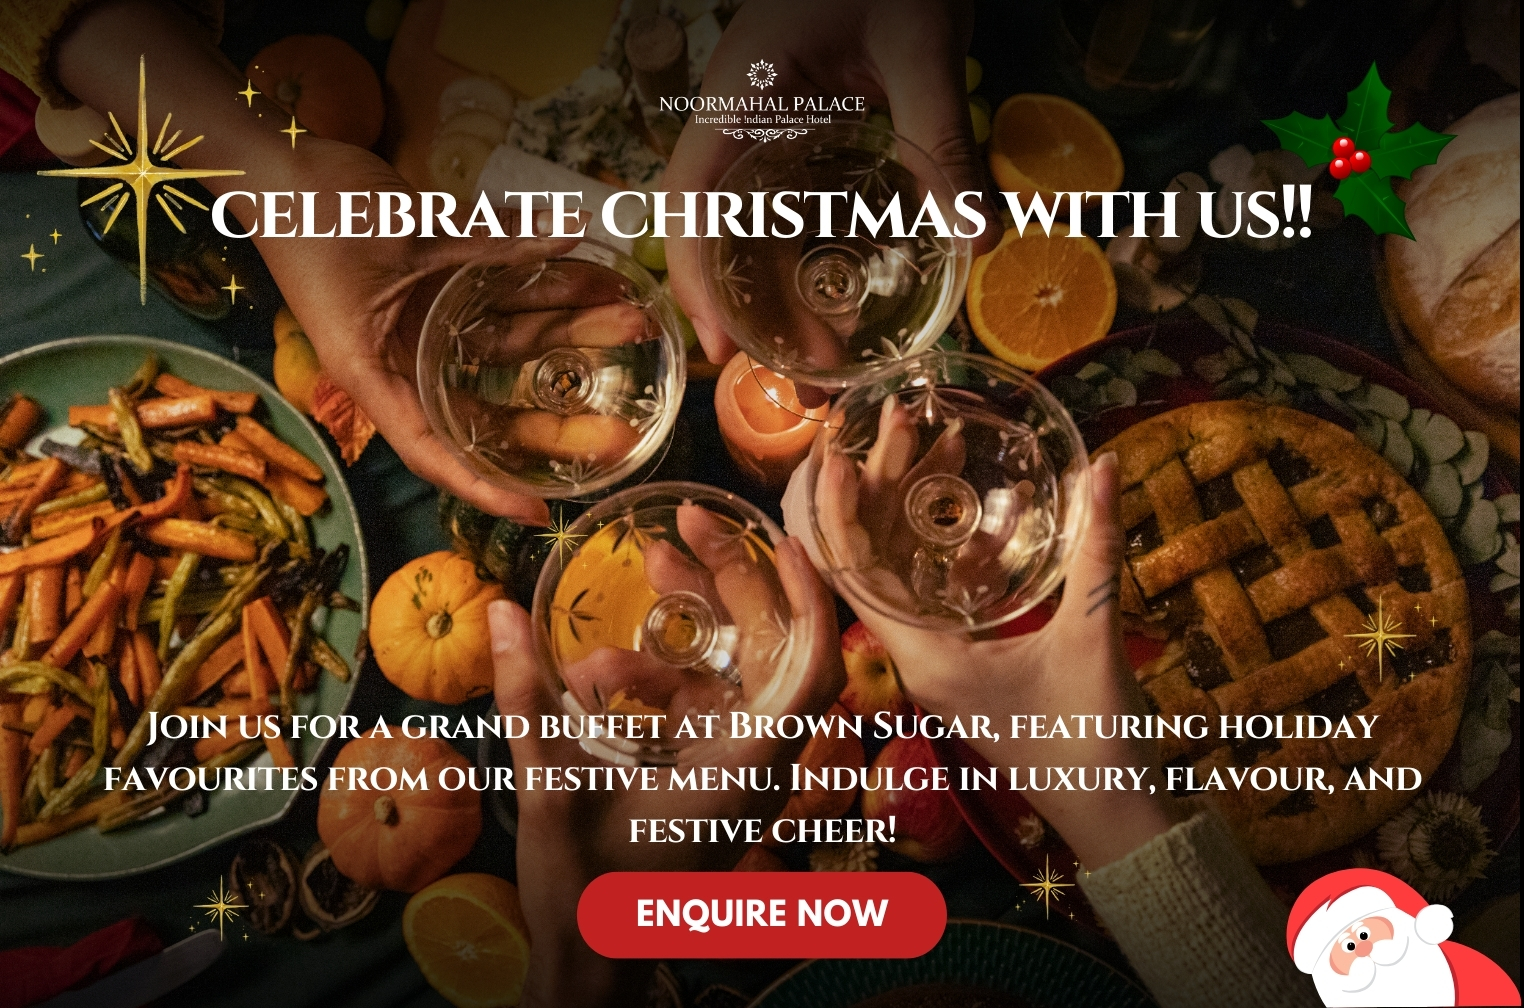
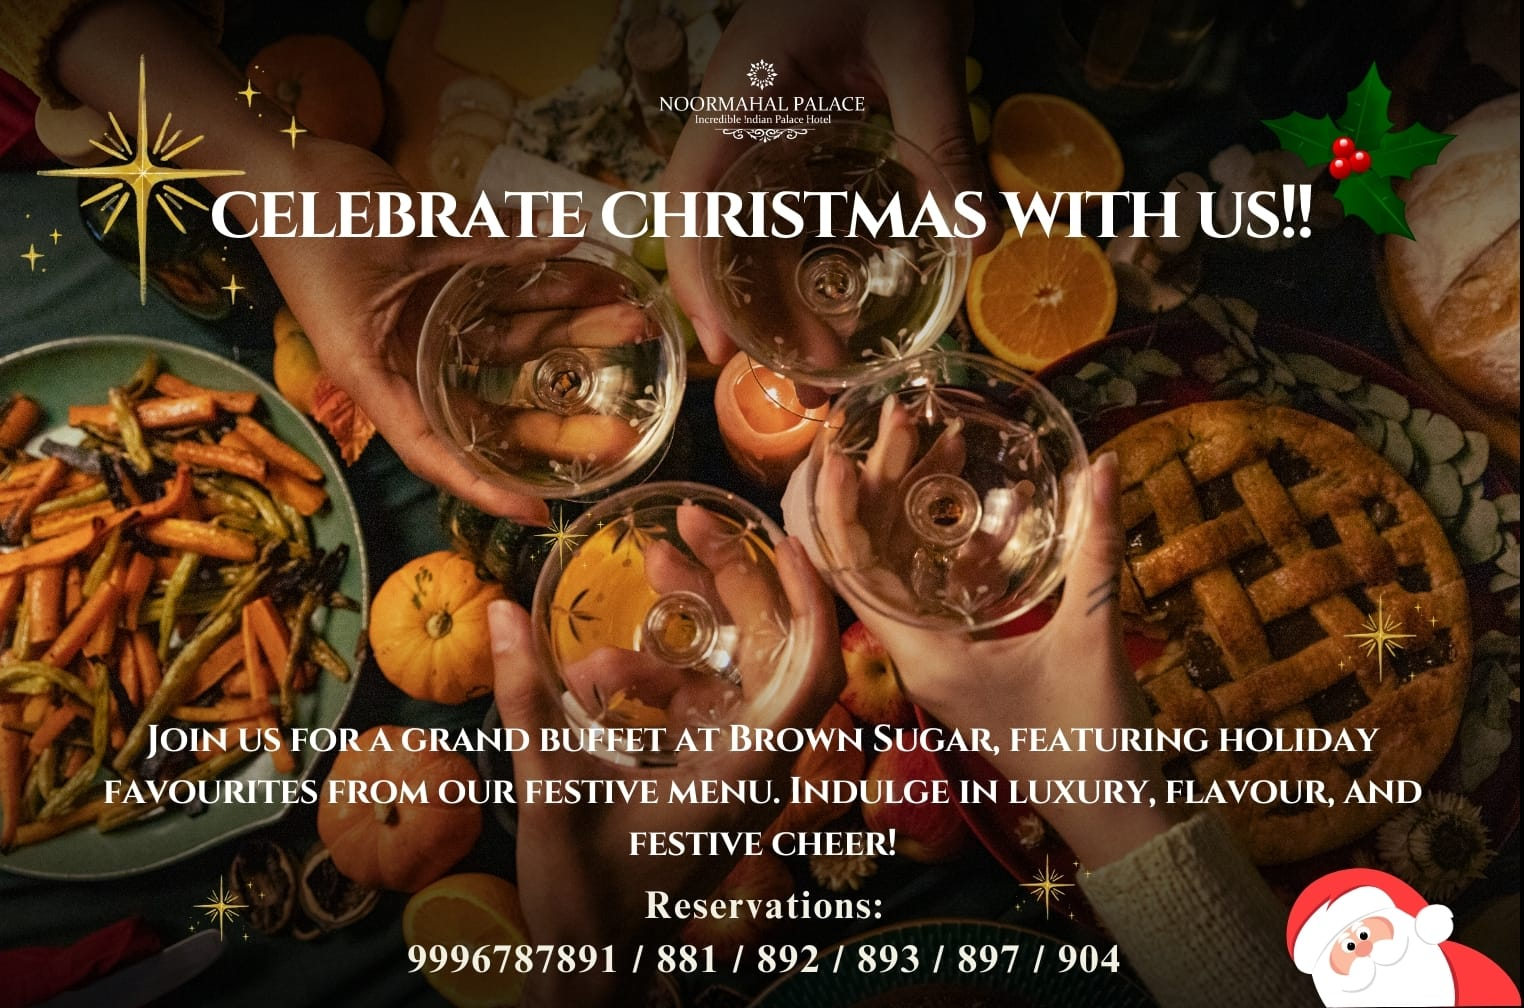
added popup

Changed region(s): [[0.0617, 0.7073, 0.956, 0.9841]]

diff --git a/src/components/StorySection.jsx b/src/components/StorySection.jsx
@@ -21,7 +21,7 @@ function StorySection({
[1 lines of base64/hex data omitted]
 
   useEffect(() => {
-    setShowPopUp(false);
+    setShowPopUp(true);
   }, []);
 
   // useEffect(() => {
@@ -48,29 +48,29 @@ function StorySection({
   //   return () => clearInterval(intervalId);
   // }, []);
 
-  useEffect(() => {
-    const checkPopupTime = () => {
-      const currentDate = new Date();
-      // Set start and end times for the popup display window
-      const startTime = new Date('2024-10-30T00:00:00'); // Start showing on 30th October
-      const endTime = new Date('2024-11-02T03:00:00'); // Hide at 3 AM on 2nd November
+  // useEffect(() => {
+  //   const checkPopupTime = () => {
+  //     const currentDate = new Date();
+  //     // Set start and end times for the popup display window
+  //     const startTime = new Date('2024-10-30T00:00:00'); // Start showing on 30th October
+  //     const endTime = new Date('2024-11-02T03:00:00'); // Hide at 3 AM on 2nd November
 
-      if (currentDate >= startTime && currentDate < endTime) {
-        setShowPopUp(true); // Show popup
-      } else {
-        setShowPopUp(false); // Hide popup
-      }
-    };
+  //     if (currentDate >= startTime && currentDate < endTime) {
+  //       setShowPopUp(true); // Show popup
+  //     } else {
+  //       setShowPopUp(false); // Hide popup
+  //     }
+  //   };
 
-    // Check popup time immediately when component mounts
-    checkPopupTime();
+  //   // Check popup time immediately when component mounts
+  //   checkPopupTime();
 
-    // Optionally, re-check every minute if you want real-time updates
-    const intervalId = setInterval(checkPopupTime, 60 * 1000); // Check every minute
+  //   // Optionally, re-check every minute if you want real-time updates
+  //   const intervalId = setInterval(checkPopupTime, 60 * 1000); // Check every minute
 
-    // Clear interval when component unmounts to avoid memory leaks
-    return () => clearInterval(intervalId);
-  }, []);
+  //   // Clear interval when component unmounts to avoid memory leaks
+  //   return () => clearInterval(intervalId);
+  // }, []);
 
   return (
     <div>

diff --git a/src/styles/sass/pages/_landing.scss b/src/styles/sass/pages/_landing.scss
@@ -1424,34 +1424,34 @@
 
 .popup-image {
   @include media-break-width(1500, 2500) {
-    width: 560px;
-    height: 560px;
+    width: 700px;
+    height: 470px;
     object-fit: fill;
   }
   @include media-break-width(992, 1499) {
-    width: 560px;
-    height: 560px;
+    width: 700px;
+    height: 470px;
     object-fit: fill;
   }
 
   @include max-media-width(991) {
-    width: 430px;
-    height: 430px;
+    width: 600px;
+    height: 420px;
     object-fit: fill;
   }
   @include max-media-width(767) {
-    width: 400px;
-    height: 400px;
+    width: 600px;
+    height: 420px;
     object-fit: fill;
   }
   @include max-media-width(667) {
-    width: 320px;
-    height: 320px;
+    width: 380px;
+    height: 260px;
     object-fit: fill;
   }
   @include max-media-width(467) {
-    width: 300px;
-    height: 300px;
+    width: 320px;
+    height: 240px;
     object-fit: fill;
   }
 }

diff --git a/src/components/pageComponents/storyPage/Popup.jsx b/src/components/pageComponents/storyPage/Popup.jsx
@@ -1,7 +1,7 @@
 import Link from 'next/link';
 import React from 'react';
 import { MdClose } from 'react-icons/md';
-import image from '../../../../public/assets/images/popup/diwali.jpg';
+import image from '../../../../public/assets/images/promotion/christmasBuffet.jpg';
 import Image from 'next/image';
 function Popup({ showPopUp, setShowPopUp }) {
   // const handleClick = () =>{
